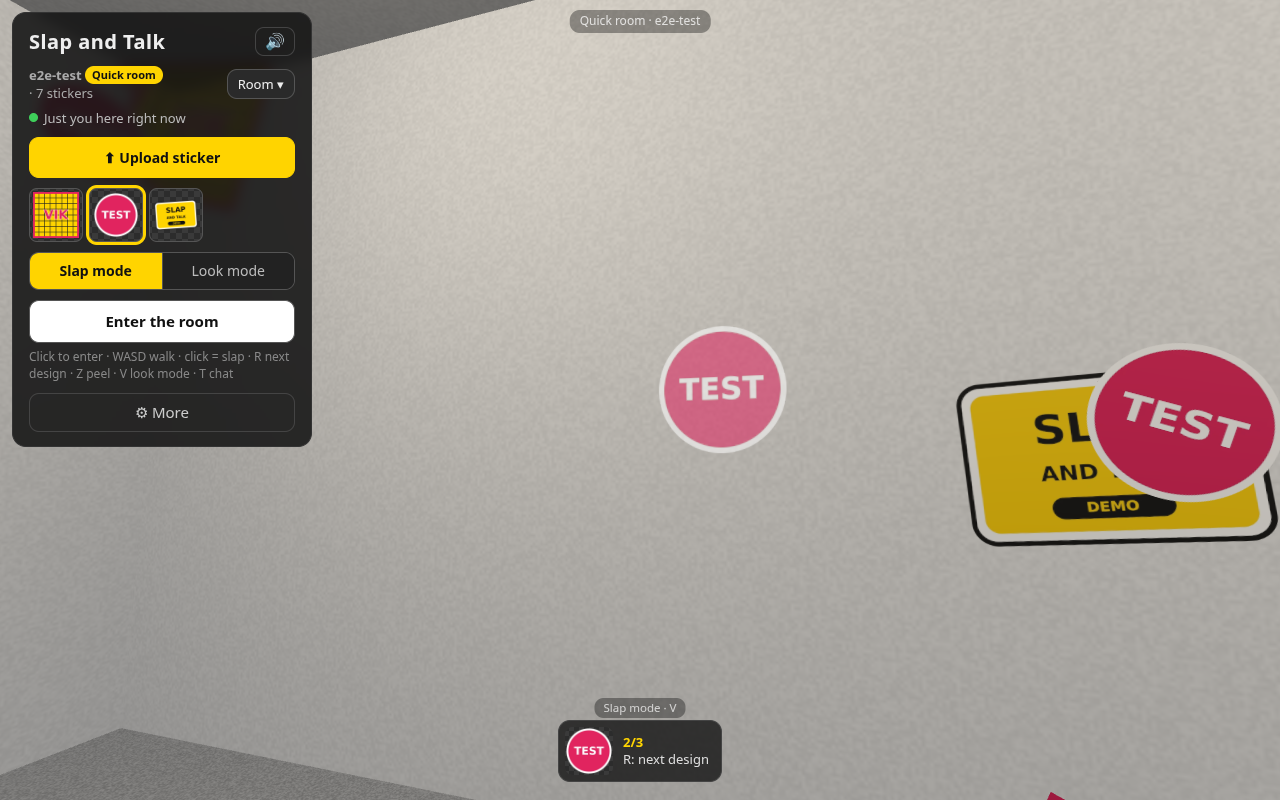
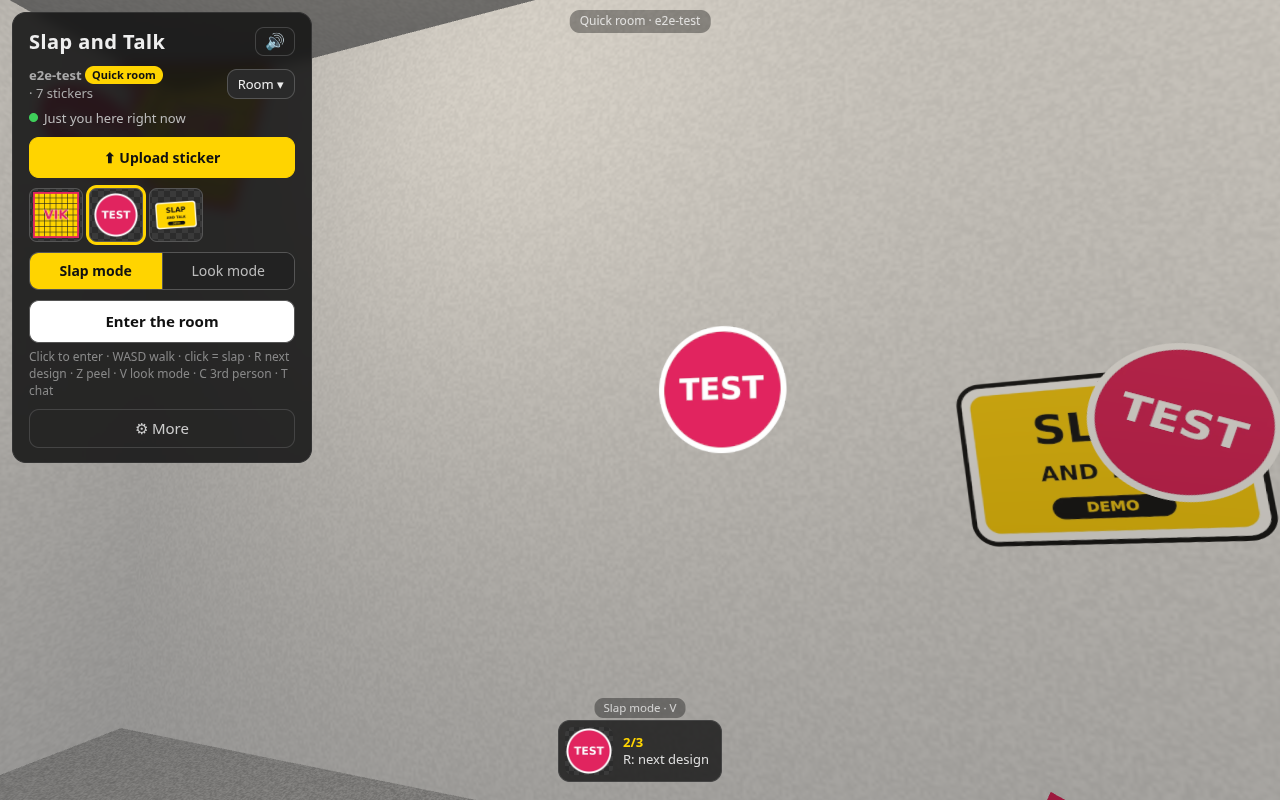
Held sticker fully opaque: the preview you aim with (1st and 3rd person, desktop and touch) now draws at HELD_OPACITY = 1 (one constant in client/src/stamps.js, set 0.55 to revert). Die-cut shape kept with alphaTest 0.02; no z-fighting (depthWrite off, polygonOffset -8 vs -4 for placed stickers, ren

Changed region(s): [[0.0, 0.5, 0.25, 0.5938], [0.5, 0.4062, 0.625, 0.5625]]

diff --git a/tests/e2e.js b/tests/e2e.js
@@ -203,6 +203,8 @@ const waitReady = (page) => page.waitForFunction(() => window.klibb && window.kl
       const map = window.klibb.preview.mat.map; return !!map && map.image.src.includes(window.klibb.state.selected.id);
     });
     assert(previewOk, 'förhandsvisningen byter bild direkt');
+    const heldMat = await page.evaluate(() => { const m = window.klibb.preview.mat; return { o: m.opacity, a: m.alphaTest, dw: m.depthWrite, po: m.polygonOffset }; });
+    assert(heldMat.o === 1 && heldMat.a > 0 && !heldMat.dw && heldMat.po, 'klibban man håller i är helt ogenomskinlig, behåller formen (alphaTest) och flimrar inte mot väggen');
     await page.keyboard.press('r'); await page.waitForTimeout(200);
     await page.evaluate(() => { const k = window.klibb; k.moveTo(-1, -2.5); k.look(0.3, 0.1);
       k.preview.show(new k.camera.position.constructor(-1.4, 1.9, -5), new k.camera.position.constructor(0, 0, 1),
@@ -349,10 +351,10 @@ const waitReady = (page) => page.waitForFunction(() => window.klibb && window.kl
     // Mobil: ögat växlar Tittläge, tryck stämplar inte då
     assert(await m.isVisible('#mode-btn'), 'mobil: ögonknappen syns');
     await m.tap('#mode-btn'); await m.waitForTimeout(200);
-    const mv = await m.evaluate(() => [window.klibb.state.mode, getComputedStyle(document.getElementById('design-btn')).opacity, window.klibb.stamps.count]);
+    const mv = await m.evaluate(() => [window.klibb.state.mode, getComputedStyle(document.getElementById('design-btn')).opacity, window.klibb.stamps.count, getComputedStyle(document.getElementById('design-btn')).borderTopStyle]);
     await m.touchscreen.tap(vp.width * 0.4, vp.height * 0.3); await m.waitForTimeout(700);
     const mvc = await m.evaluate(() => window.klibb.stamps.count);
-    assert(mv[0] === 'view' && Number(mv[1]) < 0.6 && mvc === mv[2], 'mobil: 👁 ger Tittläge, designknappen dämpas och tryck stämplar inte');
+    assert(mv[0] === 'view' && Number(mv[1]) === 1 && mv[3] === 'dashed' && mvc === mv[2], 'mobil: 👁 ger Tittläge, designknappen får streckad ram (inte genomskinlig) och tryck stämplar inte');
     await m.waitForFunction(() => !document.getElementById('toast').classList.contains('show'), null, { timeout: 5000 });
     await m.screenshot({ path: path.join(SHOTS, '14-tittlage-mobil.png') });
     await m.tap('#mode-btn'); await m.waitForTimeout(200);

diff --git a/client/src/stamps.js b/client/src/stamps.js
@@ -198,12 +198,20 @@ export class StampLayer {
   get count() { return this.meshes.size; }
 }
 
-// En genomskinlig förhandsvisning som följer siktet (bara på dator).
+// Hur genomskinlig klibban man håller i är. 1 = helt ogenomskinlig, som en riktig klibba
+// (Tittläget V finns för att se väggen utan klibban i vägen). Sätt t.ex. 0.55 för att gå tillbaka.
+export const HELD_OPACITY = 1;
+
+// Förhandsvisningen av klibban man håller i, som följer siktet (1:a och 3:e person).
 // Den viks på samma sätt som den riktiga klibban, så man ser hur den hamnar i hörn.
+// Formen på utskurna PNG:er behålls med alphaTest; opacity påverkar inte formen.
 export class StampPreview {
   constructor(scene, faces = null) {
     this.faces = faces;
-    this.mat = new THREE.MeshBasicMaterial({ transparent: true, opacity: 0.55, depthWrite: false, polygonOffset: true, polygonOffsetFactor: -8, polygonOffsetUnits: -8 });
+    this.mat = new THREE.MeshBasicMaterial({
+      transparent: true, opacity: HELD_OPACITY, alphaTest: 0.02, depthWrite: false,
+      polygonOffset: true, polygonOffsetFactor: -8, polygonOffsetUnits: -8,
+    });
     this.mesh = new THREE.Mesh(new THREE.PlaneGeometry(1, 1), this.mat);
     this.mesh.renderOrder = 1e6;
     this.mesh.visible = false;

diff --git a/client/src/style.css b/client/src/style.css
@@ -84,8 +84,9 @@ body.touch #mode-hud { left: auto; right: 20px; transform: none; bottom: calc(11
   border-radius: 50%; font-size: 26px; line-height: 1; background: rgba(20,20,20,.75); border: 2px solid rgba(255,255,255,.5);
   z-index: 4; touch-action: manipulation; }
 #mode-btn[aria-pressed="true"] { background: #ffd400; border-color: #ffd400; }
-body.view-mode #design-btn { opacity: .45; }
-body.view-mode #design-hud { opacity: .5; }
+/* I Tittläge dämpas inte klibban man håller i (klibbor är aldrig genomskinliga): streckad ram i stället */
+body.view-mode #design-btn { border-style: dashed; }
+body.view-mode #design-hud img { outline: 2px dashed rgba(255,255,255,.6); outline-offset: 2px; }
 /* I Tittläge: bara en liten prick i stället för siktet */
 body.view-mode #crosshair { width: 4px; height: 4px; margin: -2px 0 0 -2px; border: 0; background: rgba(255,255,255,.55); }
 
